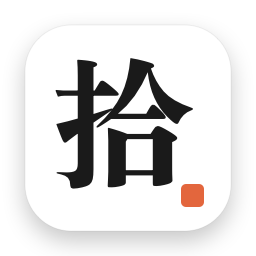
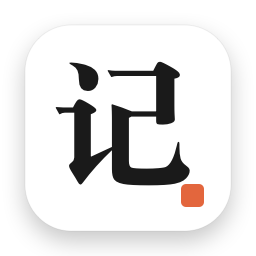
v2.0.0

Changed region(s): [[0.2188, 0.2188, 0.75, 0.75]]

diff --git a/tools/make-icon.swift b/tools/make-icon.swift
@@ -1,4 +1,6 @@
-// 生成拾记的软件图标：白底黑字“拾”，右下角一块橙色小方块。
+// 生成拾记的软件图标：白底黑字“记”，右下角一块橙色小方块。
+// 拾系列的图标都是这一套：用软件名的第二个字（拾记 → 记、拾时 → 时、拾卡 → 卡），
+// 右下角的橙色方块是整个系列共同的标记。
 // 用法：swift tools/make-icon.swift 输出目录
 import AppKit
 
@@ -23,9 +25,9 @@ func render(size px: Int) -> Data {
     ctx.restoreGState()
     ctx.addPath(path); ctx.setStrokeColor(NSColor.black.withAlphaComponent(0.08).cgColor); ctx.setLineWidth(3); ctx.strokePath()
 
-    // “拾”字：宋体粗体，略偏左上，给右下角色块留位置
+    // “记”字：宋体粗体，略偏左上，给右下角色块留位置
     let font = NSFont(name: "STSongti-SC-Black", size: 560) ?? NSFont(name: "Songti SC", size: 560) ?? .boldSystemFont(ofSize: 560)
-    let text = NSAttributedString(string: "拾", attributes: [.font: font, .foregroundColor: NSColor(white: 0.1, alpha: 1)])
+    let text = NSAttributedString(string: "记", attributes: [.font: font, .foregroundColor: NSColor(white: 0.1, alpha: 1)])
     let bounds = text.boundingRect(with: .zero, options: [.usesLineFragmentOrigin, .usesFontLeading])
     text.draw(at: CGPoint(x: 512 - bounds.width / 2 - 20, y: 512 - bounds.height / 2 + 20))
 

diff --git a/README.md b/README.md
@@ -11,7 +11,7 @@
 
 <p align="center">
   <a href="https://github.com/houyue-9980/PikNote/releases/latest"><b>下载 Download</b></a>
-  &nbsp;·&nbsp; 当前版本 Version <b>1.2.0</b>
+  &nbsp;·&nbsp; 当前版本 Version <b>2.0.0</b>
   &nbsp;·&nbsp; macOS 15+
   <br><br>
   <a href="#中文">中文</a> &nbsp;|&nbsp; <a href="#english">English</a>
@@ -41,6 +41,8 @@
 
 一个超轻量的 Mac 原生笔记软件：书架是唯一的导航，每篇笔记是一个普通的 .md 文件，写的时候所见即所得，写数学公式不用背 LaTeX。
 
+> 从 2.0 起，拾记的图标换成了“记”字。拾系列的每款软件都用名字的第二个字做图标，右下角的橙色方块是整个系列共同的标记。
+
 ### 特点
 
 - **文件永远是你的**：每篇笔记都是标准的 `.md` 文件，存在你选的文件夹里（可以放在 iCloud 云盘、OneDrive 等任何同步文件夹）。卸掉拾记，笔记一切如常
@@ -53,7 +55,7 @@
 
 ### 安装
 
-1. 到 [Releases](https://github.com/houyue-9980/PikNote/releases/latest) 下载 `PikNote-1.2.0.dmg`
+1. 到 [Releases](https://github.com/houyue-9980/PikNote/releases/latest) 下载 `PikNote-2.0.0.dmg`
 2. 打开后，把 **PikNote** 拖进“应用程序”
 3. 第一次打开：拾记没有经过苹果公证，直接双击会提示“无法验证开发者”。请在“应用程序”里**右键点击 PikNote → 打开**，再在弹窗里点“打开”。之后就能正常双击打开了
    - 如果没有“打开”按钮：打开 **系统设置 → 隐私与安全性**，在下面找到关于 PikNote 的提示，点“仍要打开”
@@ -98,6 +100,8 @@ tools/run-app.sh
 
 A lightweight native Mac note app: the bookshelf is your only navigation, every note is a plain .md file, what you see is what you get, and you can write math without memorizing LaTeX.
 
+> Starting with 2.0, PikNote’s icon shows 记 (“note”). Every app in the 拾 series uses the second character of its name as its icon, and the orange square in the corner marks the whole family.
+
 ### Features
 
 - **Your files stay yours**: every note is a standard `.md` file in a folder you choose (iCloud Drive, OneDrive or any synced folder works). Uninstall PikNote and your notes are untouched
@@ -110,7 +114,7 @@ A lightweight native Mac note app: the bookshelf is your only navigation, every 
 
 ### Install
 
-1. Download `PikNote-1.2.0.dmg` from [Releases](https://github.com/houyue-9980/PikNote/releases/latest)
+1. Download `PikNote-2.0.0.dmg` from [Releases](https://github.com/houyue-9980/PikNote/releases/latest)
 2. Open it and drag **PikNote** into Applications
 3. PikNote isn’t notarized by Apple, so double-clicking it the first time says the developer can’t be verified. Instead, **right-click PikNote in Applications → Open**, then click Open. After that it opens normally
    - No Open button? Go to **System Settings → Privacy & Security**, find the message about PikNote near the bottom and click “Open Anyway”

diff --git a/docs/releases/v2.0.0.md b/docs/releases/v2.0.0.md
@@ -1,0 +1,25 @@
+# 拾记 PikNote 2.0.0
+
+## 新图标
+
+拾记的图标从“拾”换成了“**记**”。
+
+拾记是拾系列的第一款软件，之后还会有更多。从这一版起，拾系列的每款软件都用自己名字的第二个字做图标（拾记 → 记），白底、宋体、右下角那块橙色小方块不变，它是整个系列共同的标记。
+
+更新后，程序坞（Dock）和“应用程序”里的图标会变成新的样子。如果还显示旧图标，把 PikNote 从程序坞移除后重新打开即可。
+
+笔记、书架、设置都不受影响，功能和 1.2.0 一样。
+
+---
+
+# PikNote 2.0.0
+
+## New icon
+
+PikNote’s icon changes from 拾 to **记** (“note”).
+
+PikNote is the first app in the 拾 series, with more to come. From this release on, every app in the series uses the second character of its name as its icon (拾记 → 记). The white tile, the serif character and the small orange square in the corner stay the same; the square marks the whole family.
+
+After updating, the icon in the Dock and Applications changes to the new design. If you still see the old icon, remove PikNote from the Dock and open it again.
+
+Your notes, shelves and settings are untouched, and features are the same as in 1.2.0.
